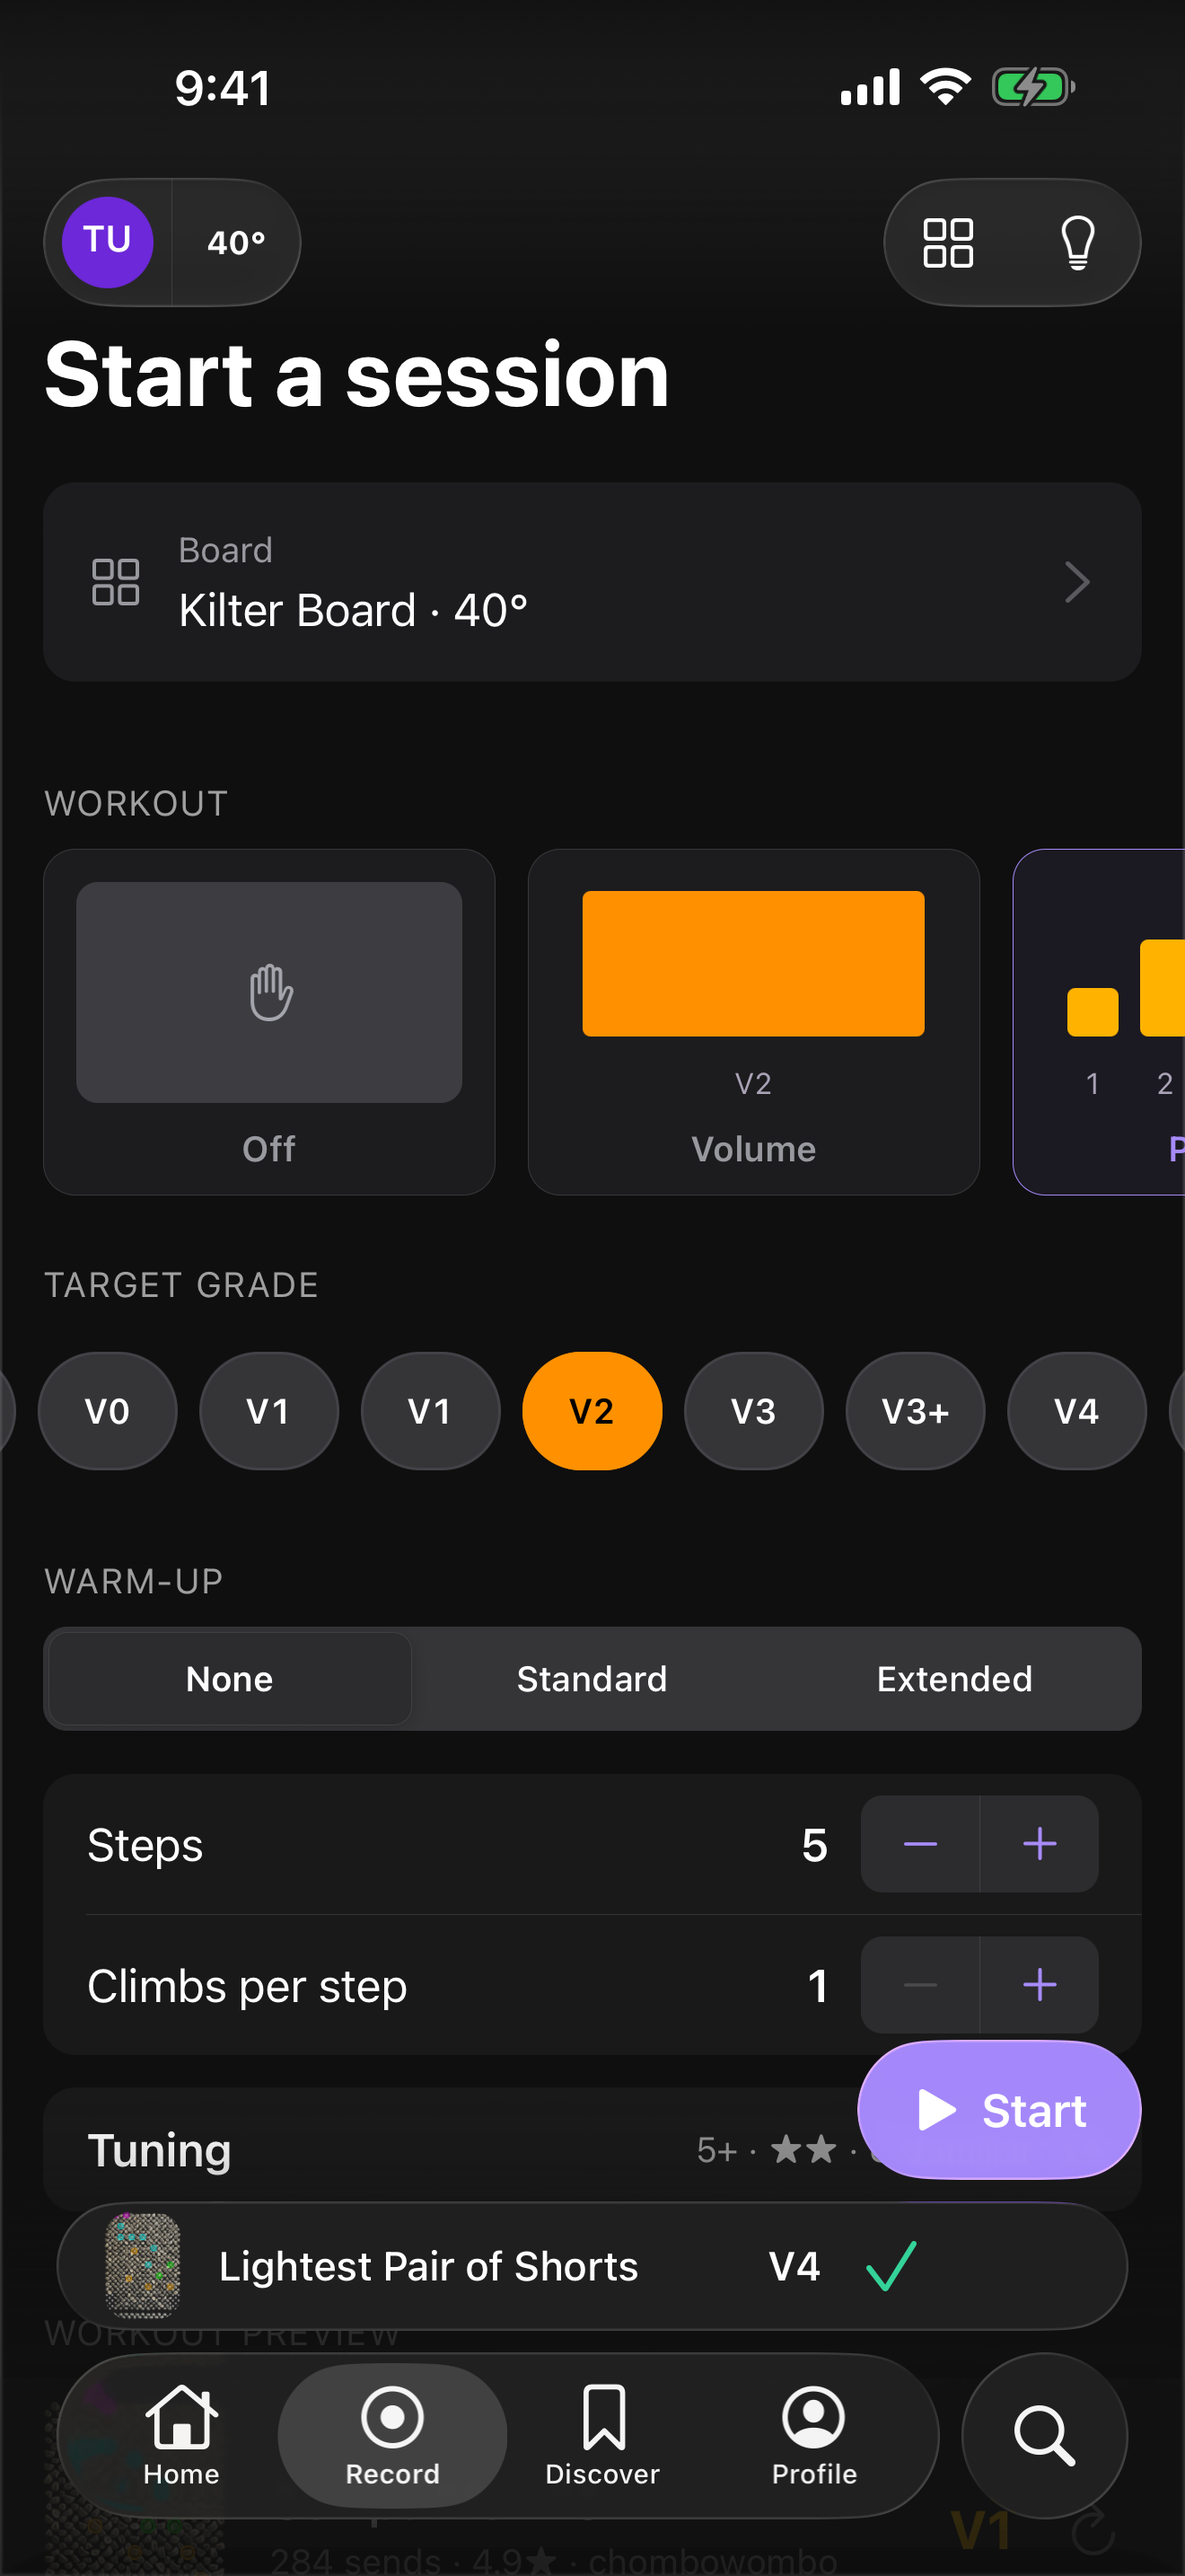
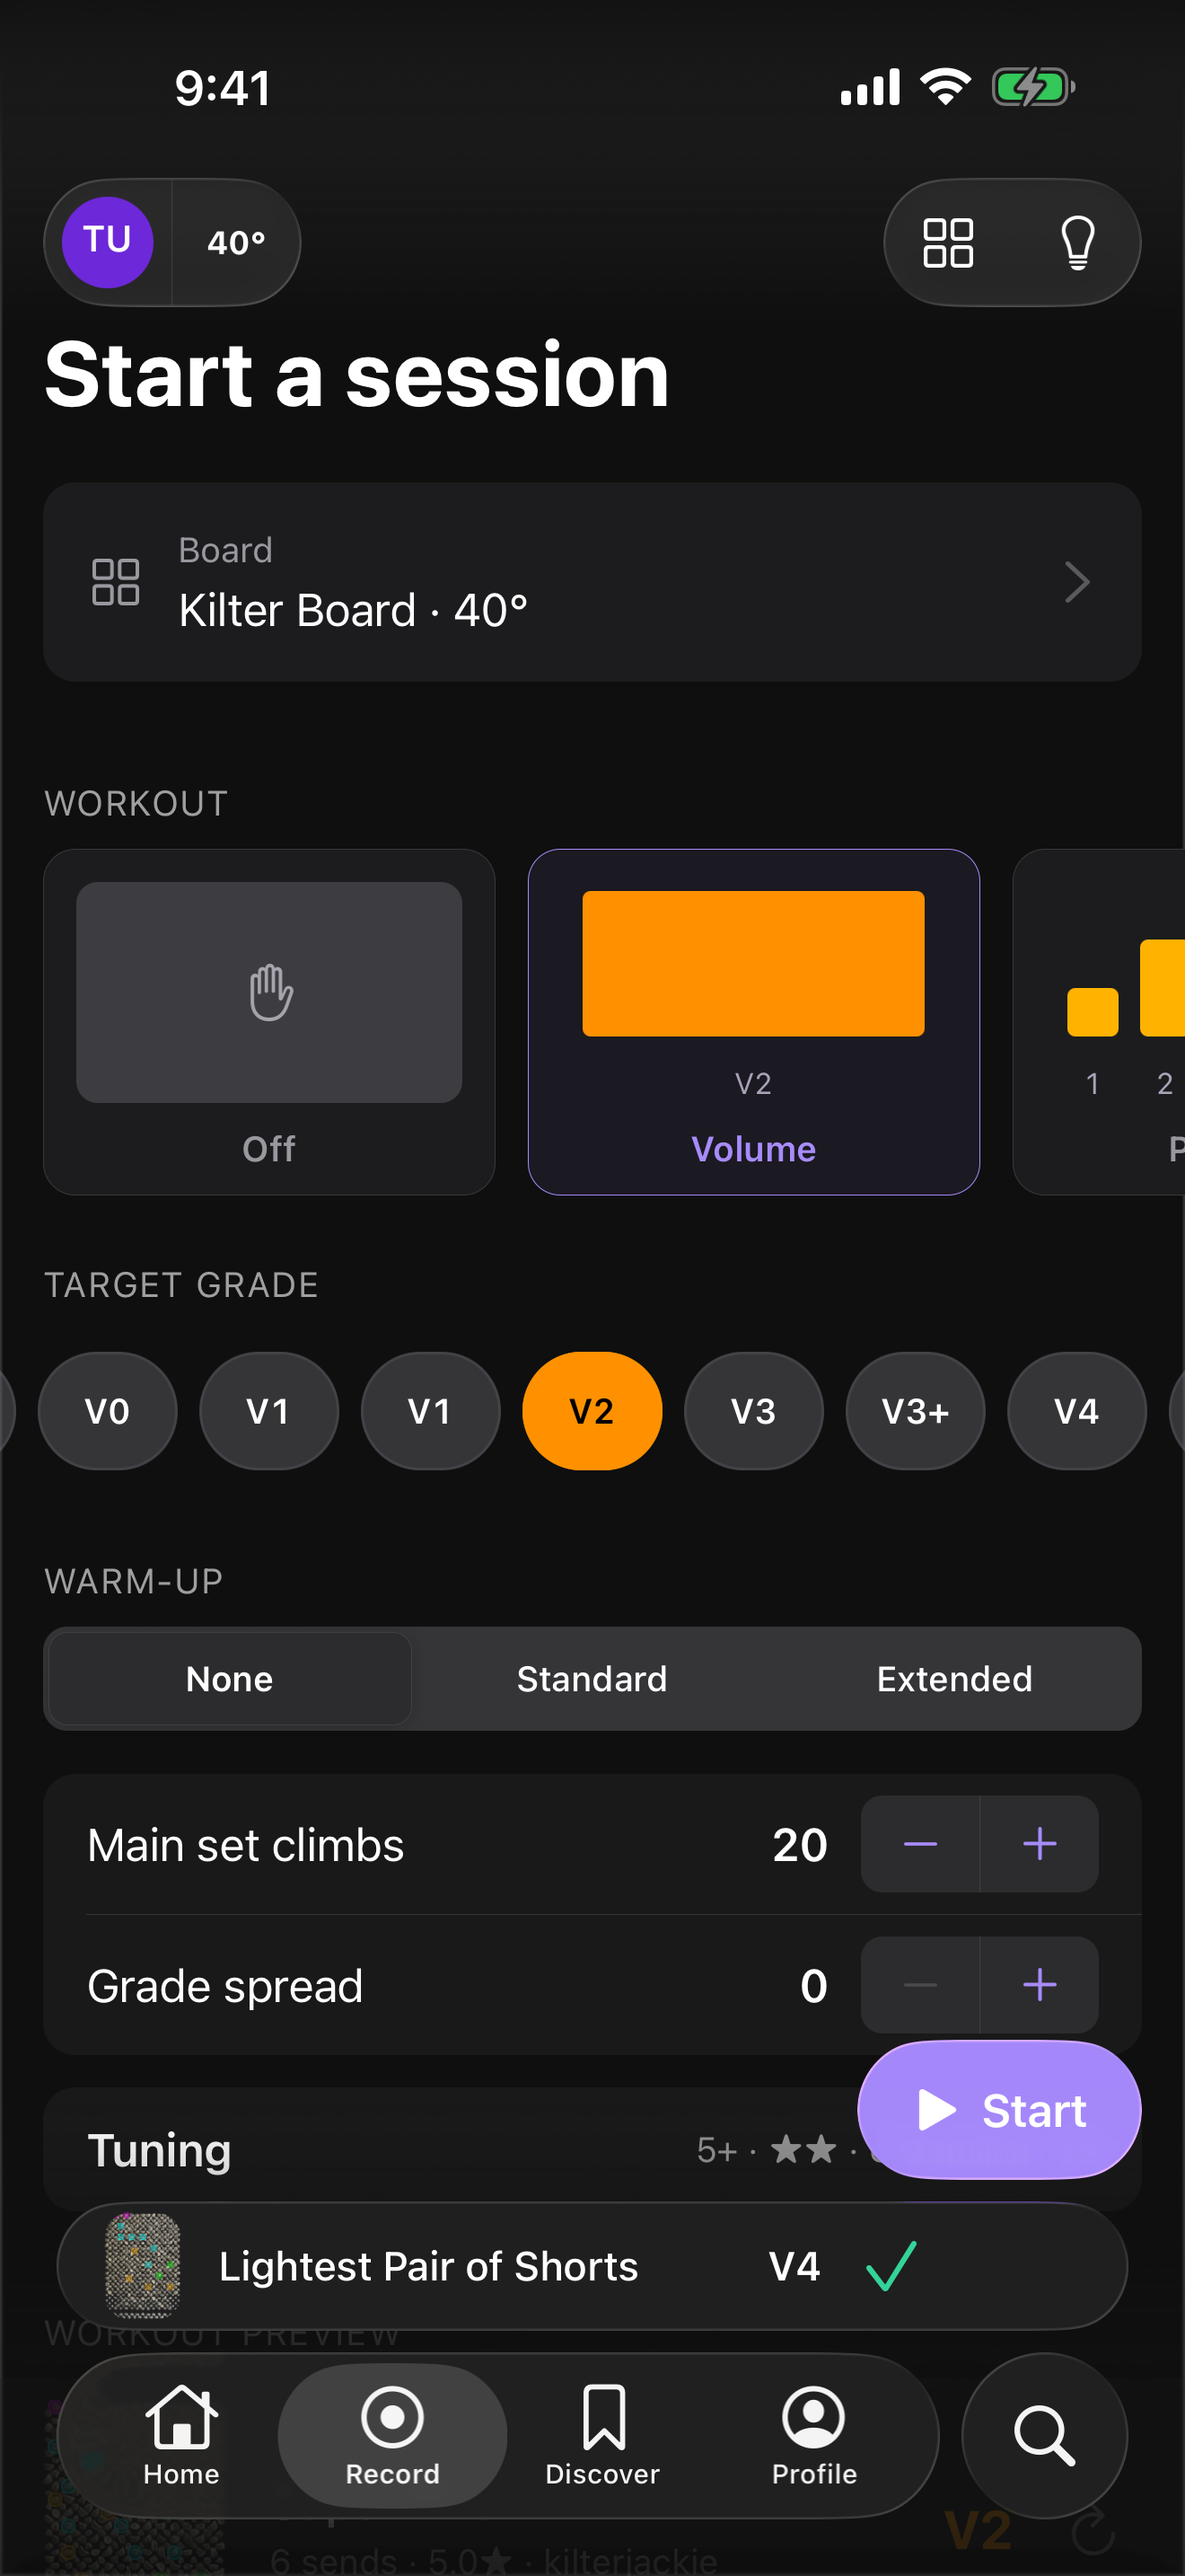
feat(mobile): use Volume for the workout-generator screenshot
Switch the baked default workout from pyramid to volume (orchestrator --workout
default + screenshot-mode example). Volume is the 2nd tile in the workout shelf,
so it's on-screen — the capture now shows the Volume tile *selected* (highlighted
border) with its config (main-set climbs / grade spread) + the generated preview,
instead of pyramid whose tile scrolled off-screen. Re-captured the set.

diff --git a/scripts/mobile-screenshots.ts b/scripts/mobile-screenshots.ts
@@ -74,10 +74,10 @@ export function parseArgs(argv: readonly string[]): ScreenshotOptions {
     variant: null,
     // Dark is the canonical store appearance (the app defaults to dark).
     theme: 'dark',
-    // Pyramid by default so the Record screen captures the workout generator
-    // (its shelf is a gesture-handler ScrollView Maestro can't tap). `--workout off`
-    // leaves the generator Off (plain "Start a session").
-    workout: 'pyramid',
+    // Volume by default so the Record screen captures the workout generator with
+    // a visible, selected tile (its shelf is a gesture-handler ScrollView Maestro
+    // can't tap/scroll). `--workout off` leaves the generator Off ("Start a session").
+    workout: 'volume',
     shutdown: false,
   };
 

diff --git a/packages/mobile/src/lib/screenshot-mode.ts b/packages/mobile/src/lib/screenshot-mode.ts
@@ -44,7 +44,7 @@ export const SCREENSHOT_VARIANT_PREFERENCE: UiVariantPreference = isUiVariantPre
  * The workout shelf is a react-native-gesture-handler ScrollView, which doesn't
  * respond to Maestro's synthetic taps/swipes, so we can't pick it from the flow —
  * baking the initial selection is the reliable way. Empty/unset (the default)
- * leaves the generator "Off". Set e.g. `EXPO_PUBLIC_SCREENSHOT_WORKOUT=pyramid`.
+ * leaves the generator "Off". Set e.g. `EXPO_PUBLIC_SCREENSHOT_WORKOUT=volume`.
  */
 const SCREENSHOT_WORKOUT_TYPES = ['volume', 'pyramid', 'ladder', 'gradeFocus'] as const;
 export type ScreenshotWorkout = (typeof SCREENSHOT_WORKOUT_TYPES)[number];

diff --git a/scripts/__tests__/mobile-screenshots.test.ts b/scripts/__tests__/mobile-screenshots.test.ts
@@ -10,7 +10,7 @@ function makeOptions(overrides: Partial<ScreenshotOptions> = {}): ScreenshotOpti
     device: 'iPhone 16 Pro Max',
     variant: null,
     theme: 'dark',
-    workout: 'pyramid',
+    workout: 'volume',
     shutdown: false,
     ...overrides,
   };
